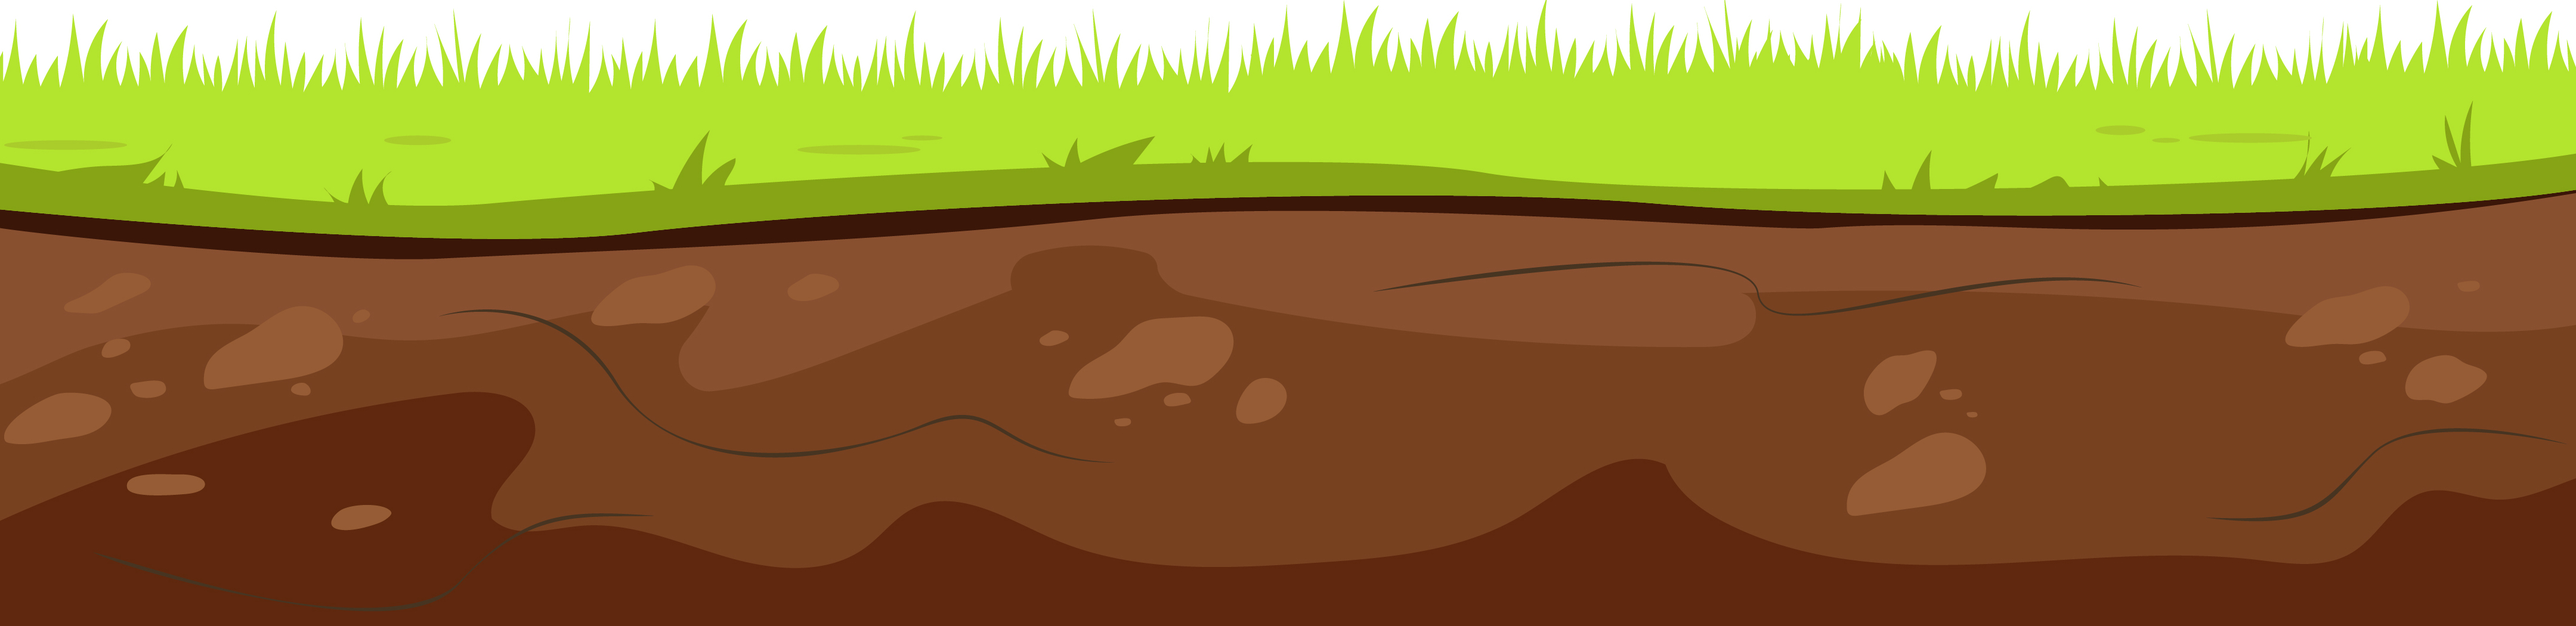
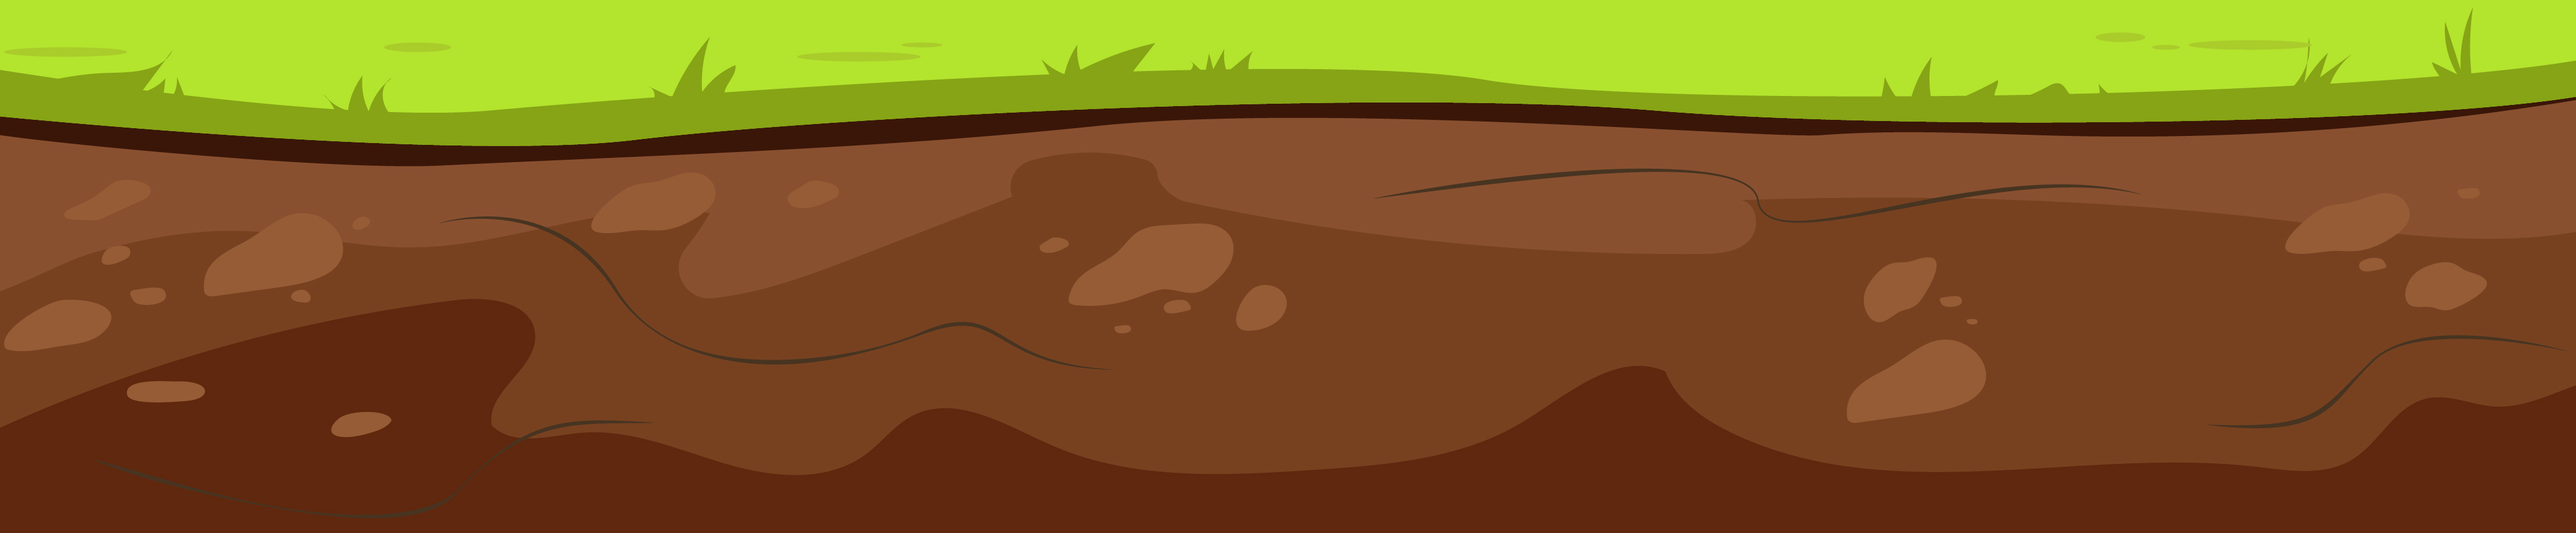
[FIX] code

diff --git a/src/main.c b/src/main.c
@@ -67,7 +67,7 @@ int start(window_t window, int boo)
     if (boo)
         start_runner(window);
     sfSprite **obstacle = malloc(sizeof(sfSprite *) * 2);
-    sfSprite *image_fond = creat_sprite_with_texture("marseille.png", 0, 0, 1.1);
+    sfSprite *image_fond = creat_sprite_with_texture("marseille.png", 0, 0, 0.92);
     obstacle[0] = creat_sprite_with_texture("./obs.png", 2500, 650, 0.2);
     obstacle[1] = creat_sprite_with_texture("./obs.png", 3500, 650, 0.2);
     perso_t perso = {.pesro = creat_sprite_with_texture("./src/perso/run1.png", 860, 600, 2), .perso_str = "./src/perso/run1.png", .clock_perso = sfClock_create(), .up = 0};
@@ -79,6 +79,7 @@ int start(window_t window, int boo)
             close_window(window.window, window.event);
         sfRenderWindow_drawSprite(window.window, image_fond, NULL);
         sfRenderWindow_drawSprite(window.window, window.bas, NULL);//la c'est le 1er si non beug
+        deplacement_sprite(image_fond, -0.10, 0);
         obstacle_deplacement(&window, obstacle);
         moove_perso(&perso);
         sfRenderWindow_drawSprite(window.window, perso.pesro, NULL);
